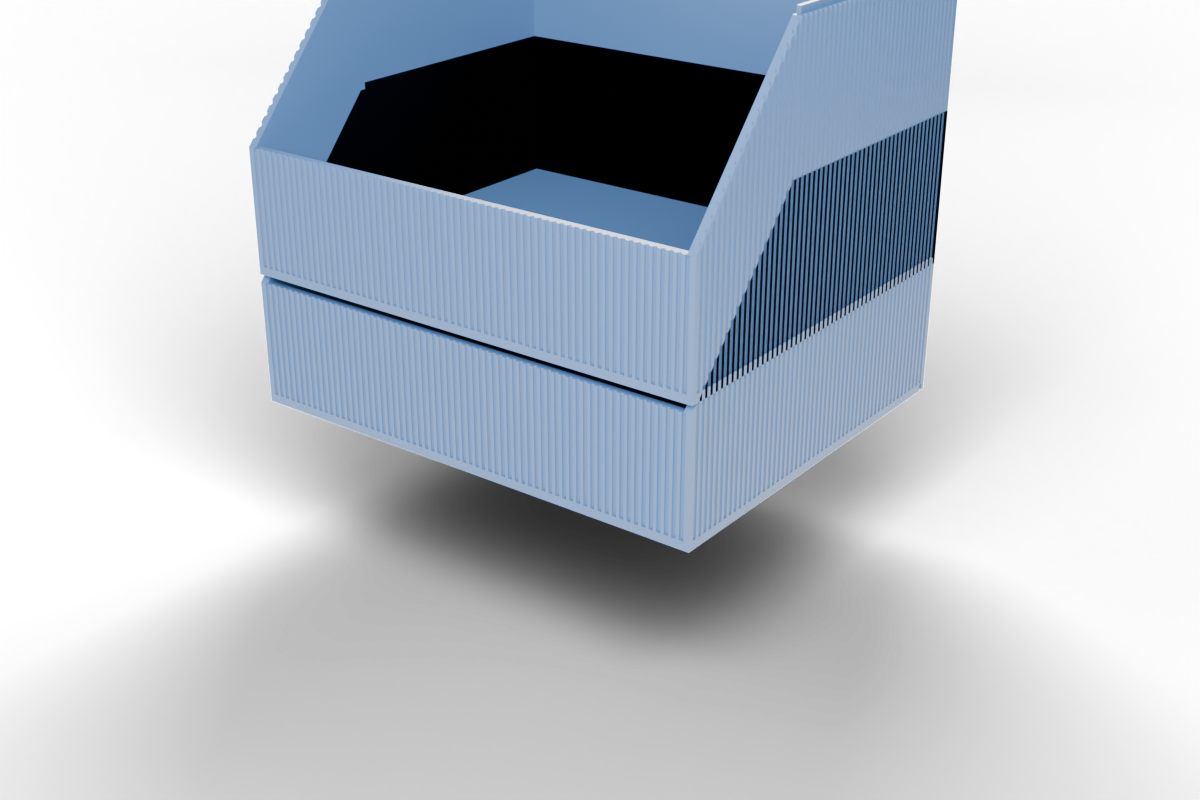
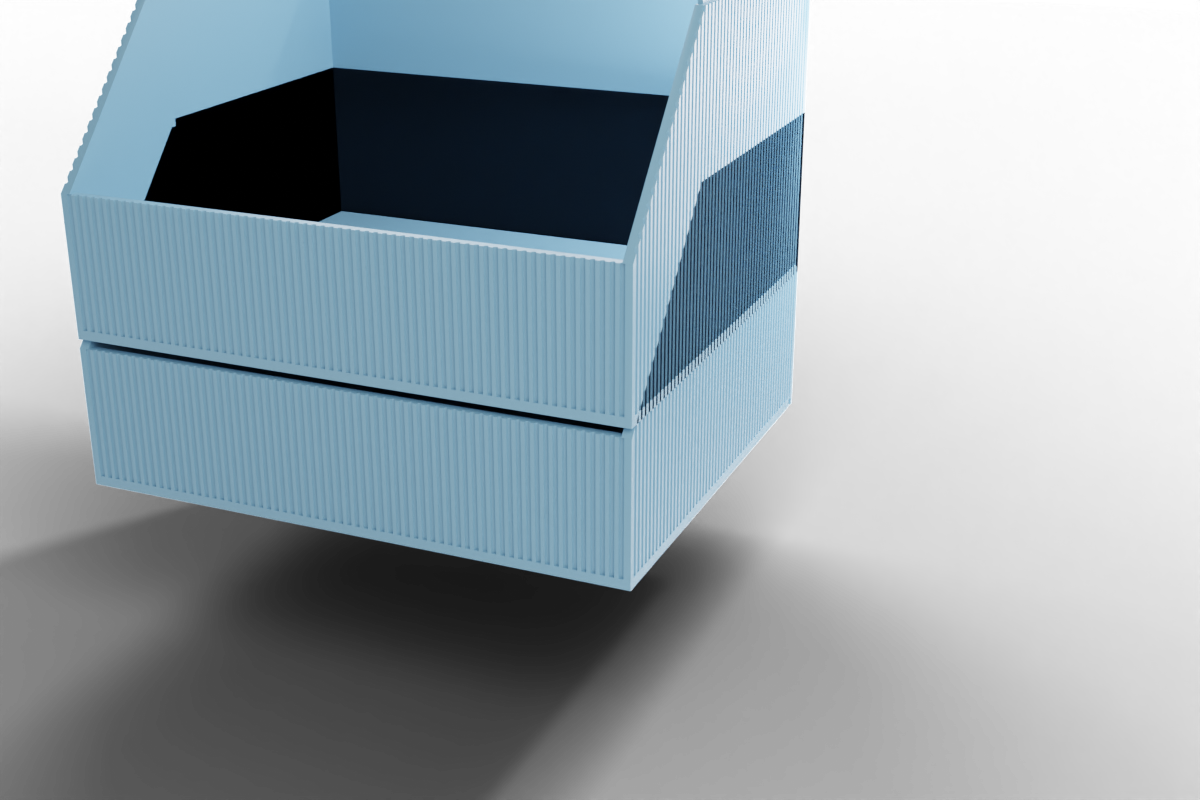
docs: improved Blender Cycles raytraced previews with realistic steel-blue PLA material

diff --git a/docs/_blender_render.py b/docs/_blender_render.py
@@ -55,7 +55,7 @@ if STACKED:
     obj2.location.z = -min_z2 + (BIN_HEIGHT_M - STACK_LIP_M)
     all_objects.append(obj2)
 
-# ── Matte PLA material (Bambu steel-blue, FDM layer-line bump) ──
+# ── Matte PLA material (Bambu steel-blue) ────────────────────
 mat = bpy.data.materials.new("PLA_Blue")
 mat.use_nodes = True
 nodes = mat.node_tree.nodes
@@ -65,50 +65,25 @@ nodes.clear()
 output = nodes.new("ShaderNodeOutputMaterial")
 principled = nodes.new("ShaderNodeBsdfPrincipled")
 
-# Bambu PLA Basic steel-blue — use sRGB hex #2B5278 converted to linear:
-# R=0.169^2.2=0.023, G=0.322^2.2=0.084, B=0.471^2.2=0.189  → too dark
-# Instead, set a visually correct mid-blue that renders well under studio light
-principled.inputs["Base Color"].default_value = (0.05, 0.12, 0.28, 1.0)
-principled.inputs["Roughness"].default_value = 0.38
-principled.inputs["Specular IOR Level"].default_value = 0.5
-principled.inputs["Coat Weight"].default_value = 0.12
-principled.inputs["Coat Roughness"].default_value = 0.25
-
-# FDM layer-line bump via fine horizontal wave texture
-tex_coord = nodes.new("ShaderNodeTexCoord")
-mapping = nodes.new("ShaderNodeMapping")
-mapping.inputs["Scale"].default_value = (1.0, 1.0, 500.0)  # fine Z stripes = layer lines
-links.new(tex_coord.outputs["Object"], mapping.inputs["Vector"])
-
-wave = nodes.new("ShaderNodeTexWave")
-wave.wave_type = 'BANDS'
-wave.bands_direction = 'Z'
-wave.inputs["Scale"].default_value = 800.0      # ~0.2 mm layers at model scale
-wave.inputs["Distortion"].default_value = 0.3   # slight irregularity
-wave.inputs["Detail"].default_value = 2.0
-wave.inputs["Detail Roughness"].default_value = 0.5
-links.new(mapping.outputs["Vector"], wave.inputs["Vector"])
-
-bump = nodes.new("ShaderNodeBump")
-bump.inputs["Strength"].default_value = 0.08    # very subtle, just enough for realism
-bump.inputs["Distance"].default_value = 0.001
-links.new(wave.outputs["Fac"], bump.inputs["Height"])
-links.new(bump.outputs["Normal"], principled.inputs["Normal"])
+# Steel-blue PLA — sRGB values (Blender interprets Base Color as sRGB automatically)
+principled.inputs["Base Color"].default_value = (0.15, 0.33, 0.50, 1.0)
+principled.inputs["Roughness"].default_value = 0.45
+principled.inputs["Specular IOR Level"].default_value = 0.4
 
 links.new(principled.outputs["BSDF"], output.inputs["Surface"])
 
-# Apply material and smooth shading to all bins
+# Apply material + smooth-by-angle shading (softens grooves, keeps box edges sharp)
 for o in all_objects:
     o.data.materials.append(mat)
     bpy.context.view_layer.objects.active = o
     o.select_set(True)
     try:
-        bpy.ops.object.shade_smooth_by_angle(angle=math.radians(30))
+        bpy.ops.object.shade_smooth_by_angle(angle=math.radians(50))
     except AttributeError:
         bpy.ops.object.shade_smooth()
     o.select_set(False)
 
-# ── Ground plane (subtle shadow catcher) ─────────────────────
+# ── Ground plane (shadow catcher for realistic contact shadows) ──
 bpy.ops.mesh.primitive_plane_add(size=2.0, location=(0, 0, 0))
 ground = bpy.context.active_object
 ground.name = "Ground"
@@ -119,7 +94,7 @@ gl = ground_mat.node_tree.links
 gn.clear()
 g_out = gn.new("ShaderNodeOutputMaterial")
 g_bsdf = gn.new("ShaderNodeBsdfDiffuse")
-g_bsdf.inputs["Color"].default_value = (0.95, 0.95, 0.95, 1.0)
+g_bsdf.inputs["Color"].default_value = (0.9, 0.9, 0.9, 1.0)
 gl.new(g_bsdf.outputs["BSDF"], g_out.inputs["Surface"])
 ground.data.materials.append(ground_mat)
 ground.is_shadow_catcher = True
@@ -131,22 +106,26 @@ cam_obj = bpy.data.objects.new("Camera", cam_data)
 bpy.context.collection.objects.link(cam_obj)
 bpy.context.scene.camera = cam_obj
 
-# Position camera — further back for stacked view
+# Position camera — look INTO the open front (front is at Y=0, back at Y=depth)
 if STACKED:
-    cam_obj.location = (0.28, -0.24, 0.20)
+    cam_obj.location = (0.22, -0.25, 0.18)
 else:
-    cam_obj.location = (0.22, -0.18, 0.14)
+    cam_obj.location = (0.18, -0.20, 0.12)
 
 # Point camera at center of the stack/bin
 import mathutils
 if STACKED:
     target = mathutils.Vector((
-        obj.location.x,
-        obj.location.y,
-        (BIN_HEIGHT_M - STACK_LIP_M) / 2  # center of stacked pair
+        obj.location.x + 0.02,  # slight offset for 3/4 angle
+        obj.location.y + 0.03,  # look slightly into the bin
+        (BIN_HEIGHT_M - STACK_LIP_M) * 0.55  # center height of stacked pair
     ))
 else:
-    target = obj.location.copy()
+    target = mathutils.Vector((
+        obj.location.x,
+        obj.location.y + 0.02,
+        BIN_HEIGHT_M * 0.4
+    ))
 direction = target - cam_obj.location
 rot_quat = direction.to_track_quat('-Z', 'Y')
 cam_obj.rotation_euler = rot_quat.to_euler()
@@ -154,11 +133,11 @@ cam_obj.rotation_euler = rot_quat.to_euler()
 # ── Lighting: 3-point studio ────────────────────────────────
 # Key light (warm, soft, upper-right — casts main shadow)
 key = bpy.data.lights.new("KeyLight", type='AREA')
-key.energy = 8
-key.size = 0.4          # moderately soft shadow edge
-key.color = (1.0, 0.95, 0.88)
+key.energy = 2.0
+key.size = 0.35         # moderately soft shadow edge
+key.color = (1.0, 0.96, 0.90)
 key_obj = bpy.data.objects.new("KeyLight", key)
-key_obj.location = (0.25, -0.20, 0.35)
+key_obj.location = (0.30, -0.20, 0.35)
 bpy.context.collection.objects.link(key_obj)
 # Track-to for precise aim
 ttk = key_obj.constraints.new('TRACK_TO')
@@ -168,11 +147,11 @@ ttk.up_axis = 'UP_Y'
 
 # Fill light (cool, upper-left — softens shadow contrast)
 fill = bpy.data.lights.new("FillLight", type='AREA')
-fill.energy = 3
-fill.size = 0.9         # broad & diffuse
-fill.color = (0.85, 0.90, 1.0)
+fill.energy = 1.0
+fill.size = 1.0         # very broad & diffuse for interior fill
+fill.color = (0.88, 0.92, 1.0)
 fill_obj = bpy.data.objects.new("FillLight", fill)
-fill_obj.location = (-0.22, -0.28, 0.22)
+fill_obj.location = (-0.25, -0.10, 0.25)
 bpy.context.collection.objects.link(fill_obj)
 ttf = fill_obj.constraints.new('TRACK_TO')
 ttf.target = all_objects[-1] if STACKED else obj
@@ -181,16 +160,41 @@ ttf.up_axis = 'UP_Y'
 
 # Rim / back light (defines silhouette edge)
 rim = bpy.data.lights.new("RimLight", type='AREA')
-rim.energy = 4
-rim.size = 0.25
+rim.energy = 1.5
+rim.size = 0.20
 rim.color = (1.0, 1.0, 1.0)
 rim_obj = bpy.data.objects.new("RimLight", rim)
-rim_obj.location = (-0.08, 0.30, 0.28)
+rim_obj.location = (-0.10, 0.30, 0.30)
 bpy.context.collection.objects.link(rim_obj)
 ttr = rim_obj.constraints.new('TRACK_TO')
 ttr.target = all_objects[-1] if STACKED else obj
 ttr.track_axis = 'TRACK_NEGATIVE_Z'
 ttr.up_axis = 'UP_Y'
+
+# Sun light (directional — angled to shine INTO the open front of the bins)
+sun = bpy.data.lights.new("SunLight", type='SUN')
+sun.energy = 1.5           # gentle directional fill for interiors
+sun.angle = math.radians(5)  # soft shadow edge
+sun.color = (1.0, 0.98, 0.95)
+sun_obj = bpy.data.objects.new("SunLight", sun)
+# Shine from front-above-left → into the open front
+sun_obj.rotation_euler = (math.radians(45), math.radians(-10), math.radians(160))
+bpy.context.collection.objects.link(sun_obj)
+
+# Interior fill lights — small point lights inside each bin to prevent black holes
+for idx, o in enumerate(all_objects):
+    interior = bpy.data.lights.new(f"InteriorFill_{idx}", type='POINT')
+    interior.energy = 1.5
+    interior.color = (0.85, 0.90, 1.0)  # cool fill
+    interior.shadow_soft_size = 0.05
+    int_obj = bpy.data.objects.new(f"InteriorFill_{idx}", interior)
+    # Place inside the bin, centered horizontally, mid-height
+    int_obj.location = (
+        o.location.x + 0.06,   # center of 120mm bin
+        o.location.y + 0.05,   # ~50mm from front
+        o.location.z + 0.035   # mid-height
+    )
+    bpy.context.collection.objects.link(int_obj)
 
 # ── World: subtle gradient background ────────────────────────
 world = bpy.data.worlds.new("World")
@@ -201,22 +205,26 @@ wl = world.node_tree.links
 wn.clear()
 w_out = wn.new("ShaderNodeOutputWorld")
 w_bg = wn.new("ShaderNodeBackground")
-w_bg.inputs["Color"].default_value = (0.85, 0.85, 0.88, 1.0)
-w_bg.inputs["Strength"].default_value = 0.05  # minimal ambient — shadows stay dark
+w_bg.inputs["Color"].default_value = (0.90, 0.92, 0.96, 1.0)
+w_bg.inputs["Strength"].default_value = 0.15  # minimal ambient
 wl.new(w_bg.outputs["Background"], w_out.inputs["Surface"])
 
 # ── Render settings (Cycles path tracer) ─────────────────────
 scene = bpy.context.scene
 scene.render.engine = 'CYCLES'
-scene.cycles.samples = 256            # faster iteration
+scene.cycles.samples = 256
 scene.cycles.use_denoising = True
 scene.render.resolution_x = 1200
 scene.render.resolution_y = 800
 scene.render.resolution_percentage = 100
-scene.render.film_transparent = True  # transparent background
+scene.render.film_transparent = True
 scene.render.image_settings.file_format = 'PNG'
 scene.render.image_settings.color_mode = 'RGBA'
 scene.render.filepath = OUT_PATH
+
+scene.view_settings.view_transform = 'Filmic'
+scene.view_settings.look = 'None'
+scene.view_settings.exposure = 0.0
 
 # Prefer GPU if available, fall back to CPU
 prefs = bpy.context.preferences.addons.get('cycles')